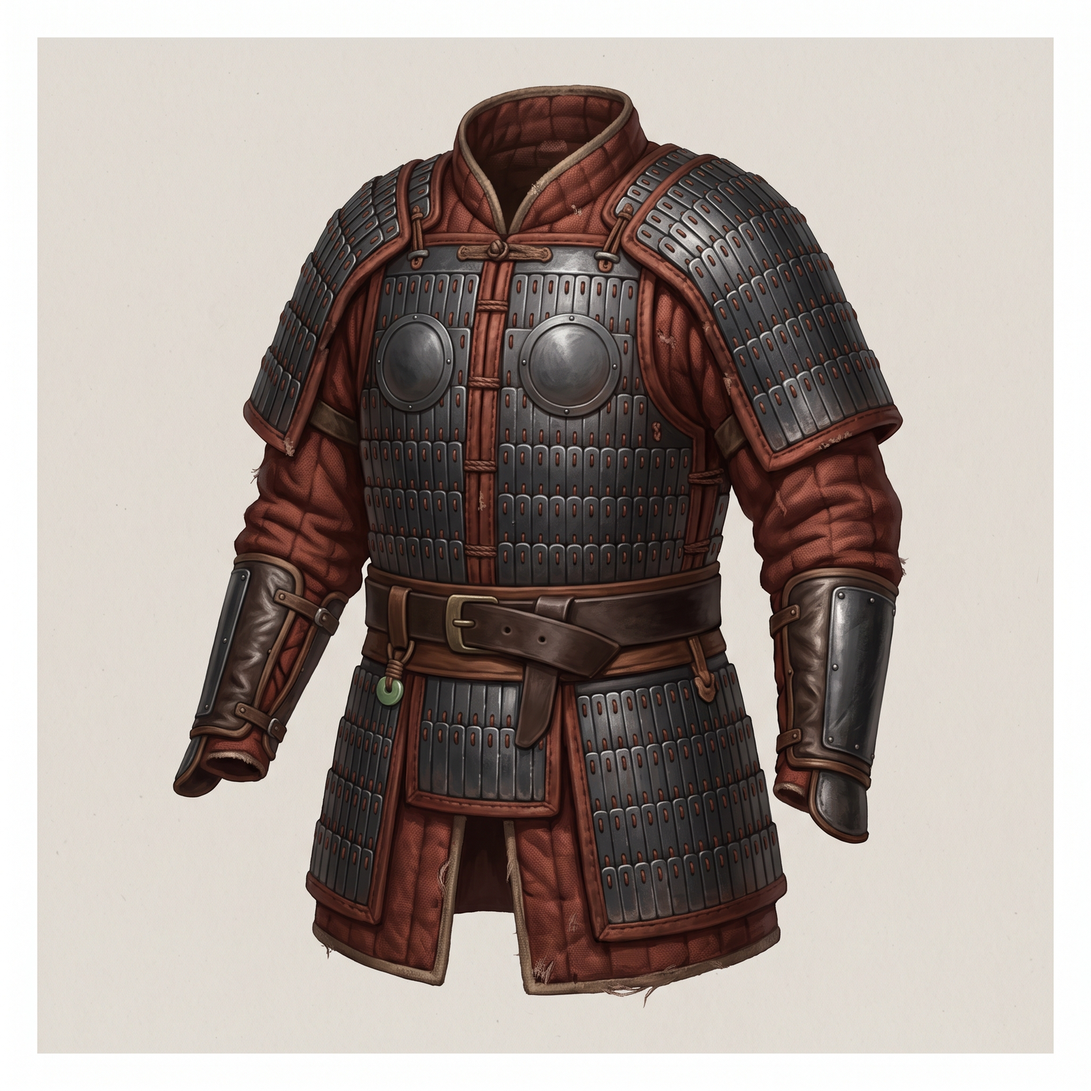
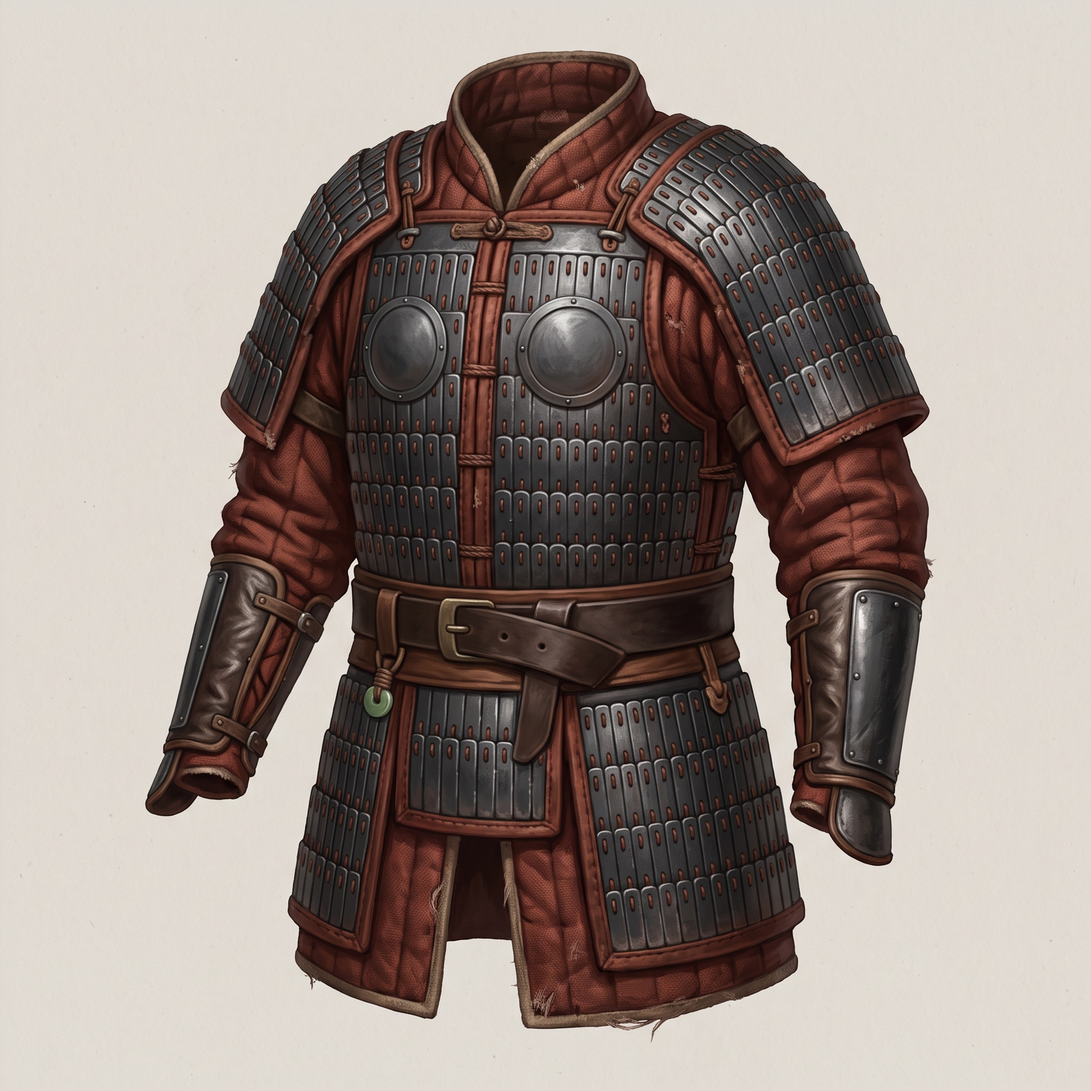
assets(gemini): eq_baoyulihuading 暴雨梨花钉；盔甲 8 张用原件重处理（自动裁掉画框）；tools/imagegen: ingest 裁画框

diff --git a/tools/imagegen/ingest.py b/tools/imagegen/ingest.py
@@ -40,6 +40,35 @@ def load_manifest(p: Path):
     return [e for e in data if isinstance(e, dict)]
 
 
+def crop_frame(im: Image.Image) -> tuple[Image.Image, list]:
+    """去掉 Gemini 偶尔自带的"画框"（外圈白边 / 深色边 / 内衬方块）：从四边向内扫，直到行列均色接近内部背景色，再按背景色补成正方形。"""
+    import numpy as np
+    a = np.asarray(im.convert("RGB"), dtype=np.float32)
+    h, w = a.shape[:2]
+    i0, i1 = int(min(h, w) * 0.16), int(min(h, w) * 0.20)
+    ring = np.concatenate([a[i0:i1, i0:w - i0].reshape(-1, 3), a[h - i1:h - i0, i0:w - i0].reshape(-1, 3),
+                           a[i0:h - i0, i0:i1].reshape(-1, 3), a[i0:h - i0, w - i1:w - i0].reshape(-1, 3)])
+    bg = np.median(ring, axis=0)
+    lim = int(min(h, w) * 0.15)
+    def scan(lines):
+        for k, line in enumerate(lines):
+            if np.abs(line.mean(axis=0) - bg).max() < 7 and np.abs(line - bg).max(axis=1).mean() < 14:
+                return k
+        return 0
+    top = scan([a[y] for y in range(lim)])
+    bottom = scan([a[h - 1 - y] for y in range(lim)])
+    left = scan([a[:, x] for x in range(lim)])
+    right = scan([a[:, w - 1 - x] for x in range(lim)])
+    box = [left, top, w - right, h - bottom]
+    if max(top, bottom, left, right) <= 2:
+        return im, []
+    inner = im.crop(box)
+    side = max(inner.size)
+    canvas = Image.new("RGB", (side, side), tuple(int(v) for v in bg))
+    canvas.paste(inner, ((side - inner.size[0]) // 2, (side - inner.size[1]) // 2))
+    return canvas, box
+
+
 def main() -> int:
     ap = argparse.ArgumentParser()
     ap.add_argument("asset_id")
@@ -83,6 +112,7 @@ def main() -> int:
     tw, th = (int(x) for x in size.split("x"))
     im = Image.open(src).convert("RGB")
     src_size = im.size
+    im, frame = crop_frame(im)
     if im.size != (tw, th):
         im = im.resize((tw, th), Image.LANCZOS) if abs(im.size[0] / im.size[1] - tw / th) < 0.02 else im
     keyed = None
@@ -93,7 +123,8 @@ def main() -> int:
     im.save(out, "PNG", optimize=True)
     ARCHIVE.mkdir(parents=True, exist_ok=True)
     arch = ARCHIVE / f"{a.asset_id}{src.suffix.lower()}"
-    shutil.move(str(src), arch)
+    if src.resolve() != arch.resolve():
+        shutil.move(str(src), arch)
     prompt = json.loads(Path(a.prompt_json).read_text(encoding="utf-8")) if a.prompt_json else build_short(a.asset_id)  # 批量默认用精简版
     neg = re.search(r"排除项?[：:](.*)$", prompt)
     entry = {
@@ -109,7 +140,7 @@ def main() -> int:
         "size": f"{im.size[0]}x{im.size[1]}",
         "sha256": hashlib.sha256(out.read_bytes()).hexdigest(),
         "status": "candidate",
-        "notes": ("写实画风（作者 2026-10-01：要跟角色图对应上）；" + (a.note or "")) + (f"；抠底 {keyed}" if keyed else ""),
+        "notes": ("写实画风（作者 2026-10-01：要跟角色图对应上）；" + (a.note or "")) + (f"；裁掉画框 {frame}" if frame else "") + (f"；抠底 {keyed}" if keyed else ""),
     }
     entries = [e for e in load_manifest(man) if e.get("id") != a.asset_id] + [entry]
     man.write_text(yaml.safe_dump(entries, allow_unicode=True, sort_keys=False, width=1000), encoding="utf-8")
